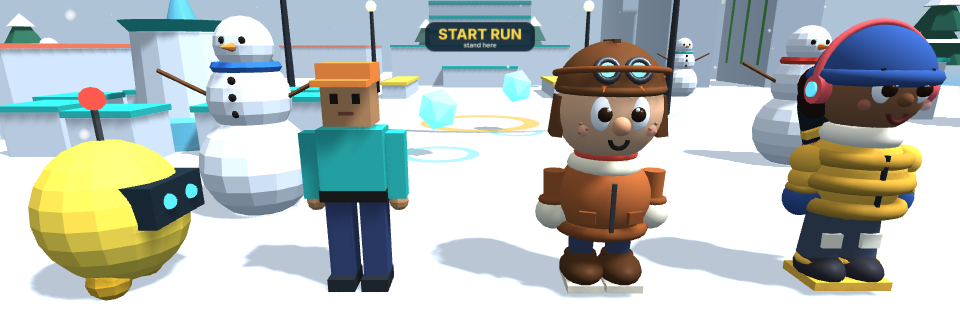
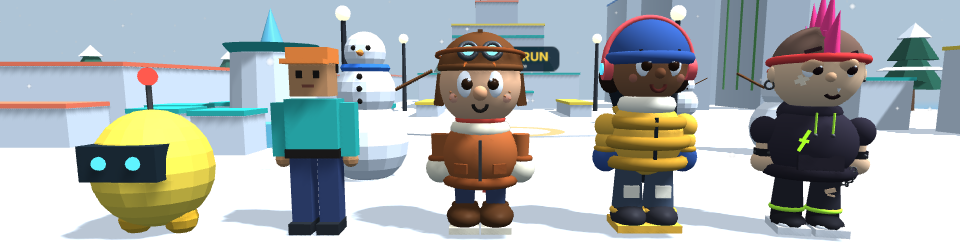
2.7.0: Vex, spring physics, and exaggerated squash & stretch setting
Claude-Session: https://claude.ai/code/session_01SxDArWDFzscbpHeAT2armF

diff --git a/js/characters.js b/js/characters.js
@@ -153,7 +153,96 @@ function buildNova(parent=P){
   return{root,hp,legL:legs[0],legR:legs[1],armL:arms[0],armR:arms[1],head,eyes,pony,hsYo:.21,
     mats:{jacket,fleece,leather,pants,boot,sole,glove,scarf,metal,lens,rib}};
 }
-const F=buildChibi(),NV=buildNova();
+// Vex: a mouthy skate punk with attitude. Same rig interface as Flip and Nova. His dangly bits run on real springs
+// (vexPhysics, below): "tails" (two bandana-knot tails), "hawk" (mohawk spikes that flop and wobble when he lands),
+// "chain" (wallet chain at his hip) and "gum" (the bubble he blows when he's left standing around).
+function buildVex(parent=P){
+  const root=new THREE.Group(),hp=new THREE.Group();hp.position.y=.9;root.add(hp);parent.add(root);
+  const S=(r,w=14,h=10)=>new THREE.SphereGeometry(r,w,h),sm=(c,o={})=>new THREE.MeshStandardMaterial({color:c,roughness:.6,...o});
+  const skin=sm(0xf1c49b,{roughness:.65}),lid=sm(0xe0ad84,{roughness:.7}),jacket=sm(0x2b2733,{roughness:.85}),rib=sm(0x221f28,{roughness:.9}),
+        fleece=sm(0xb6ff3b,{roughness:.7}),leather=sm(0xff3d8b,{roughness:.7}),roots=sm(0x6f5448,{roughness:1}),brow=sm(0x3a2228,{roughness:.9}),pants=sm(0x26262e,{roughness:.9}),
+        boot=sm(0x1d1d22,{roughness:.6}),sole=sm(0xf2f2f2,{roughness:.5}),glove=sm(0x1d1d22,{roughness:.5}),scarf=sm(0xe23b3b,{roughness:.7}),
+        metal=sm(0xc8ccd0,{roughness:.3,metalness:.7}),lens=sm(0xb6ff3b,{roughness:.4,emissive:0x4a7a00,emissiveIntensity:.9}),
+        dark=sm(0x1a0f12,{roughness:.4}),white=sm(0xffffff,{roughness:.3}),tape=sm(0xf6e2c4,{roughness:.95});
+  const T=(r,t,m,x,y,z,par,rx=PI/2,arc=2*PI)=>{const o=add(new THREE.TorusGeometry(r,t,8,24,arc),m,x,y,z,par);o.rotation.x=rx;return o};
+  const bolt=(x,y,z,k,par,ry=0)=>{const g=new THREE.Group();g.position.set(x,y,z);g.rotation.y=ry;par.add(g);
+    add(B(.05*k,.17*k,.02),lens,.025*k,.08*k,0,g).rotation.z=-.45;add(B(.13*k,.045*k,.02),lens,0,0,0,g).rotation.z=-.2;add(B(.05*k,.17*k,.02),lens,-.025*k,-.08*k,0,g).rotation.z=-.45;return g};
+  // legs: baggy ripped jeans, high-top sneakers with white toe caps
+  const legs=[-1,1].map(s=>{const g=new THREE.Group();g.position.set(s*.18,-.22,0);hp.add(g);
+    add(new THREE.CylinderGeometry(.13,.165,.42,12),pants,0,-.2,0,g);
+    if(s>0){add(B(.1,.045,.02),skin,0,-.17,.155,g).rotation.z=.3;add(B(.07,.02,.02),skin,.01,-.22,.158,g).rotation.z=-.2}
+    add(new THREE.CylinderGeometry(.15,.16,.18,12),boot,0,-.46,0,g);T(.155,.025,fleece,0,-.4,0,g);
+    add(S(.17),boot,0,-.54,.08,g).scale.set(1,.62,1.4);add(S(.1),sole,0,-.56,.23,g).scale.set(1.4,.6,.8);
+    add(B(.32,.08,.5),sole,0,-.6,.07,g);return g});
+  // oversized hoodie: kangaroo pocket, hood bunched behind the neck, drawstrings, lightning bolts front and back
+  add(S(.41,18,14),jacket,0,.1,0,hp).scale.set(1.1,1,.92);
+  T(.37,.07,rib,0,-.2,0,hp).scale.set(1.05,.92,1);
+  add(B(.42,.16,.06),rib,0,-.07,.335,hp).rotation.x=-.18;
+  add(S(.22),jacket,0,.42,-.26,hp).scale.set(1.3,.85,.7);add(S(.16),fleece,0,.47,-.22,hp).scale.set(1.1,.55,.5);
+  T(.21,.08,jacket,0,.44,-.03,hp);
+  [-1,1].forEach(s=>{add(new THREE.CylinderGeometry(.012,.012,.22,5),fleece,s*.08,.34,.37,hp);add(S(.022,6,5),metal,s*.08,.22,.375,hp)});
+  bolt(-.17,.16,.355,.7,hp,-.35);bolt(0,.14,-.39,1.5,hp,PI);
+  // arms: sleeves shoved up, studded wristbands, fists
+  const arms=[-1,1].map(s=>{const g=new THREE.Group();g.position.set(s*.46,.3,0);hp.add(g);
+    add(S(.145),jacket,0,-.07,0,g).scale.set(1,1.1,1);add(new THREE.CylinderGeometry(.075,.07,.2,10),skin,0,-.22,0,g);
+    add(new THREE.CylinderGeometry(.095,.095,.08,12),glove,0,-.31,0,g);
+    for(let i=0;i<4;i++){const a=i/4*2*PI+.4;add(S(.018,5,4),metal,Math.sin(a)*.097,-.31,Math.cos(a)*.097,g)}
+    add(S(.12),skin,0,-.41,0,g).scale.set(1,1,.9);return g});
+  // wallet chain: a loop of links from the front belt loop to the back pocket; the pivot swings it
+  const chain=new THREE.Group();chain.position.set(.34,-.14,0);hp.add(chain);
+  for(let i=0;i<=9;i++){const t=i/9,l=add(new THREE.TorusGeometry(.028,.009,5,8),metal,0,-.2*Math.sin(PI*t),.24*Math.cos(PI*t),chain);l.rotation.y=i%2?PI/2:0;l.rotation.x=PI*t}
+  // head
+  const head=new THREE.Group();head.position.set(0,.88,0);hp.add(head);
+  add(S(.43,20,16),skin,0,0,0,head);
+  [-1,1].forEach(s=>add(S(.09),skin,s*.42,-.04,0,head).scale.set(.55,1,.85));
+  T(.045,.012,metal,-.445,-.15,.02,head,0);add(S(.02,6,5),metal,.445,-.1,.03,head);
+  // shaved undercut, pink mohawk on springs (front spike is a big swoop that hangs over his brow)
+  add(new THREE.SphereGeometry(.436,22,14,0,2*PI,0,PI/2.4),roots,0,.03,-.01,head);
+  const hawk=[];[[-1,.42,.55],[-.55,.5,.32],[-.1,.48,.08],[.35,.4,-.12],[.8,.3,-.28],[1.15,.2,-.4]].forEach(([a,h,lean],i)=>{
+    const g=new THREE.Group();g.position.set(0,.41*Math.cos(a),-.41*Math.sin(a));g.rotation.x=-a-lean;head.add(g);g._b=g.rotation.x;
+    const c=add(new THREE.ConeGeometry(.14-i*.012,h,6),leather,0,h/2-.03,0,g);c.scale.set(.6,1,1);hawk.push(g)});
+  add(B(.11,.06,.75),leather,0,.4,-.04,head).rotation.x=.1;
+  // bandana across the forehead, knot at the back, two tails
+  T(.44,.045,scarf,0,.1,0,head,PI/2-.06);add(S(.07),scarf,0,.12,-.44,head);
+  const tails=[-1,1].map(s=>{const c=[];let pp=head,y0=.1,z0=-.46;for(let i=0;i<4;i++){const g=new THREE.Group();g.position.set(i?0:s*.05,y0,z0);if(!i)g.rotation.y=s*.4;pp.add(g);
+    add(B(.09-i*.014,.15,.022),scarf,0,-.075,0,g);c.push(g);pp=g;y0=-.15;z0=0}return c});
+  // face: half-lidded side-eye, one brow up and one down, lopsided smirk with a snaggletooth, bandage on the cheek
+  const eyes=[];
+  [-1,1].forEach(s=>{
+    const e=add(S(.1),white,s*.15,.02,.355,head);e.scale.set(.95,1.1,.5);eyes.push(e);
+    eyes.push(add(S(.05,10,8),dark,s*.15+.035,0,.4,head));
+    add(S(.015,6,4),white,s*.15+.05,.03,.43,head);
+    const l=add(new THREE.SphereGeometry(.108,14,8,0,2*PI,0,PI*.5),lid,s*.15,.02,.355,head);l.scale.set(.98,1.15,.6);l.rotation.x=.75;
+    const br=add(B(.15,.04,.035),brow,s*.16,s<0?.2:.15,.37,head);br.rotation.z=s<0?.28:.32});
+  add(S(.05),lid,0,-.07,.42,head);
+  const smile=T(.075,.018,dark,.04,-.2,.39,head,0,PI*.6);smile.rotation.z=PI+.55;
+  add(new THREE.ConeGeometry(.018,.045,4),white,.085,-.205,.405,head).rotation.x=PI;
+  {const b=new THREE.Group();b.position.set(-.23,-.1,.34);b.rotation.set(0,-.55,.35);head.add(b);add(B(.13,.045,.02),tape,0,0,0,b);add(B(.045,.11,.02),tape,0,0,.004,b)}
+  const gum=add(S(.15,16,12),sm(0xff4fa3,{roughness:.2,transparent:true,opacity:.92,emissive:0x5a0f30,emissiveIntensity:.4}),.05,-.22,.5,head);gum.scale.setScalar(.001);gum.visible=false;gum.castShadow=false;
+  return{root,hp,legL:legs[0],legR:legs[1],armL:arms[0],armR:arms[1],head,eyes,tails,hawk,chain,gum,gT:0,attitude:true,hsYo:.24,
+    mats:{jacket,fleece,leather,pants,boot,sole,glove,scarf,metal,lens,rib}};
+}
+// A damped spring on one rotation axis (velocity kept on the object): dangly bits overshoot and wobble instead of easing.
+function spring(o,ax,target,dt,k=120,c=9){const v=o._sv||(o._sv={x:0,y:0,z:0});v[ax]+=((target-o.rotation[ax])*k-v[ax]*c)*dt;v[ax]=Math.max(-40,Math.min(40,v[ax]));o.rotation[ax]+=v[ax]*dt}
+const kick=(o,ax,dv)=>{const v=o._sv||(o._sv={x:0,y:0,z:0});v[ax]+=dv};
+// Vex's physics. dv = how much the character's velocity changed this frame, in his own frame (f forward, s right, u up):
+// speeding up flings the tails back, stopping throws them forward, landing flops the mohawk, turning swings the chain.
+function vexPhysics(H,dt,dv,sp,air,run,ph,bank,idle){
+  const fl=Math.min(1,sp*.09)+(air?.3:0),cl=x=>Math.max(-12,Math.min(12,x));
+  H.tails.forEach((ch,j)=>ch.forEach((g,i)=>{kick(g,'x',cl(dv.f)*.35-cl(dv.u)*.12);kick(g,'z',cl(dv.s)*(.25+i*.06));
+    spring(g,'x',(i?.15+fl*.22:.35+fl*.85)+Math.sin(tAll*(5+sp*.7)-i*1.3+j*1.7)*(.03+fl*.09),dt,70+i*25,5);
+    spring(g,'z',(i?0:(j?.1:-.1))-bank*.6+Math.sin(tAll*(3.5+sp*.4)-i*.9+j)*(.03+fl*.05),dt,60+i*20,5)}));
+  H.hawk.forEach((g,i)=>{kick(g,'x',cl(dv.u)*(.5+i*.08)-cl(dv.f)*.12);kick(g,'z',cl(dv.s)*.2);
+    spring(g,'x',g._b-fl*.22*(i+1)/5+(run?Math.sin(ph*2)*.05:0),dt,150,6);spring(g,'z',-bank*.4,dt,150,6)});
+  kick(H.chain,'z',-cl(dv.s)*.5+cl(dv.u)*.05);spring(H.chain,'z',(run?Math.sin(ph)*.22:0)+(air?-.3:0),dt,45,3.5);
+  // gum: stand around long enough and he blows a bubble until it pops
+  const G=H.gum;if(idle){H.gT+=dt}else{if(G.visible&&G.scale.x>.25)popGum(H);H.gT=Math.min(H.gT,0)}
+  const q=(H.gT-2.2)/1.5;if(q>0&&q<1){G.visible=true;G.scale.setScalar(.05+.95*q*q*(1+.06*Math.sin(tAll*9)))}else if(q>=1){popGum(H);H.gT=-1.5-Math.random()*2}else{G.visible=false}}
+function popGum(H){const G=H.gum;G.visible=false;G.scale.setScalar(.001);if(state==='play'||state==='select'||state==='menu')SFX.gumPop();
+  const w=G.getWorldPosition?G.getWorldPosition(new THREE.Vector3()):new THREE.Vector3(P.position.x,py+1.6,P.position.z);
+  for(let i=0;i<7;i++){const m=new THREE.Mesh(partGeo,new THREE.MeshBasicMaterial({color:0xff8ac2,transparent:true}));m.position.copy(w);m.scale.setScalar(.6);scene.add(m);
+    parts.push({m,v:new THREE.Vector3((Math.random()-.5)*3,1+Math.random()*1.5,(Math.random()-.5)*3),life:.35})}}
+const F=buildChibi(),NV=buildNova(),VX=buildVex();
 // ---------- Flip's wardrobe ----------
 const OUTFITS=[
   {name:'Stunt Pilot',jacket:0xa8582c,fleece:0xf1e4c6,leather:0x6b3f22,pants:0x34405e,boot:0x4a2c18,sole:0xe9dcc0,glove:0xf3e6c8,scarf:0xe2493b,lens:0x9fe3f0,lensE:0x1d5a66,metal:0x7d858c},
@@ -168,6 +257,13 @@ const OUTFITS_NOVA=[
   {name:'Glacier',jacket:0xbfe6ff,fleece:0xffffff,leather:0xffffff,pants:0x5d7a91,boot:0x8a9aa6,sole:0xffffff,glove:0x7fb3d9,scarf:0x2f6fd0,lens:0xb8f0ff,lensE:0x2a6a80,metal:0xe9f6ff},
   {name:'Ember',jacket:0xd8452e,fleece:0x2a2a2a,leather:0x2a2a2a,pants:0x3a3330,boot:0x2a2220,sole:0xffb347,glove:0x2a2a2a,scarf:0xffb347,lens:0xffb347,lensE:0x804000,metal:0x2a2a2a},
   {...OUTFITS[4],name:'Gold Rush'}];
+// Vex's wardrobe (hoodie / hair = leather / bandana = scarf / laces, drawstrings, sneaker stripe = fleece / wristbands = glove / bolts = lens / studs, chain = metal)
+const OUTFITS_VEX=[
+  {name:'Street Punk',jacket:0x2b2733,fleece:0xb6ff3b,leather:0xff3d8b,pants:0x26262e,boot:0x1d1d22,sole:0xf2f2f2,glove:0x1d1d22,scarf:0xe23b3b,lens:0xb6ff3b,lensE:0x4a7a00,metal:0xc8ccd0},
+  {name:'Toxic',jacket:0x8fe02e,fleece:0x6b2cff,leather:0x6b2cff,pants:0x1d1d22,boot:0x6b2cff,sole:0x1d1d22,glove:0x6b2cff,scarf:0x1d1d22,lens:0x1d1d22,lensE:0x000000,metal:0x9aa0a8},
+  {name:'Bubblegum',jacket:0xff8ac2,fleece:0xffffff,leather:0x37d7ff,pants:0x3a3f6b,boot:0x37d7ff,sole:0xffffff,glove:0xffffff,scarf:0x37d7ff,lens:0xffffff,lensE:0x5a5a7a,metal:0xe8e8f0},
+  {name:'Blackout',jacket:0x18181c,fleece:0xff2a2a,leather:0xf4f4f4,pants:0x18181c,boot:0x18181c,sole:0xff2a2a,glove:0xff2a2a,scarf:0xff2a2a,lens:0xff2a2a,lensE:0x7a0000,metal:0x55585e},
+  {...OUTFITS[4],name:'Gold Tooth',leather:0x1d1d22}];
 const unlocked=(o,list=OUTFITS)=>!list[o].lock||!!bestA.orbRunAdv2;
 const OFI={}; // each wardrobe character's current outfit, by character index
 function applyOutfit(i){const c=chars[ci];if(c.outs)applyOutfitTo(c.rig.mats,i,c.outs)}
@@ -181,6 +277,7 @@ const chars=[
   {name:'Flip',desc:'A pint-sized stunt pilot who plays by momentum. Harder to steer, full of tricks.',speed:1.1,jump:9.5,sp:5,jp:4,ag:5,g:F.root,rig:F,outs:OUTFITS,ofKey:'orbRunOutfit',acro:true,
    moves:'Shift: crouch · Crouch + Jump: long jump (running) or backflip (standing) · Shift in the air: dive · Jump off a wall mid-air: wall jump · Jump as you land: double and triple jump · Reverse at speed to skid, Jump mid-skid to side flip'}];
 chars.push({name:'Nova',desc:'A fearless backcountry snowboarder with a board on her back and beats in her ears. Same trick moveset as Flip.',speed:1.1,jump:9.5,sp:5,jp:4,ag:5,g:NV.root,rig:NV,outs:OUTFITS_NOVA,ofKey:'orbRunOutfitNova',acro:true,moves:chars[2].moves});
+chars.push({name:'Vex',desc:'A mouthy skate punk who never asked for your help and won\u2019t say thanks. Same trick moveset as Flip.',speed:1.1,jump:9.5,sp:5,jp:4,ag:5,g:VX.root,rig:VX,outs:OUTFITS_VEX,ofKey:'orbRunOutfitVex',acro:true,moves:chars[2].moves});
 chars.forEach((c,i)=>{if(!c.outs)return;let v=0;try{v=+localStorage.getItem(c.ofKey)||0}catch(e){}if(!c.outs[v])v=0;OFI[i]=v;applyOutfitTo(c.rig.mats,v,c.outs)});
 const A={wallT:0,lock:0,wnx:0,wnz:0,spd:0,mode:'normal',t:0,air:false,landT:0,jumpN:0,canCut:false,canDive:true,prevC:false,flipT:99,flipAxis:'x',flipDir:1,knock:0,skidTo:0,twirlT:99};
 const resetAcro=()=>Object.assign(A,{wallT:0,lock:0,spd:0,mode:'normal',t:0,air:false,landT:0,jumpN:0,canCut:false,canDive:true,flipT:99,knock:0,twirlT:99});
@@ -191,6 +288,6 @@ function readyRing(){fxRing.position.set(P.position.x,py+.06,P.position.z);fxT=.
 function trail(col,n=1){for(let i=0;i<n;i++){const m=new THREE.Mesh(partGeo,new THREE.MeshBasicMaterial({color:col,transparent:true}));
   m.position.set(P.position.x+(Math.random()-.5)*.4,py+.5+Math.random()*.9,P.position.z+(Math.random()-.5)*.4);scene.add(m);
   parts.push({m,v:V(-vel.x*.15,.2,-vel.z*.15),life:.35})}}
-// Flip is the lead: default pick, first in the select order. Sunny and Rook remain as alternates.
-const ORDER=[2,3,0,1];let ci=2;try{const v=localStorage.getItem('orbRunPick');if(v!==null&&chars[+v])ci=+v}catch(e){}let pickCi=ci;
+// Flip is the lead: default pick, first in the select order, then Nova and Vex. Sunny and Rook remain as alternates.
+const ORDER=[2,3,4,0,1];let ci=2;try{const v=localStorage.getItem('orbRunPick');if(v!==null&&chars[+v])ci=+v}catch(e){}let pickCi=ci;
 let wave=0,bank=0,squash=0,airVy=0,wasG=true,lastFace=0;

diff --git a/js/loop.js b/js/loop.js
@@ -3,6 +3,38 @@
 const clock=new THREE.Clock();let tAll=0;
 const camPos=V(0,14,22),look=V(0,0,0);
 let wasPlaying=null,wallSliding=false,sndG=true,sndAir=0,sndVy=0,stepPh=0;
+// spring physics input: how the character's velocity changed this frame, in their own frame (f forward, s right, u up)
+const pv={x:0,y:0,z:0},dvL={f:0,s:0,u:0};let idleT=0;
+// Settings → Squash & stretch: Exaggerated springs the whole body around every move (TS = spring state per rig)
+let TOON=false;try{TOON=localStorage.getItem('orbRunSquash')==='big'}catch(e){}
+function setToon(on){TOON=on;try{localStorage.setItem('orbRunSquash',on?'big':'normal')}catch(e){}}
+const TS=new Map();
+// target body scale for the current move: [x (side), y (up), z (forward)]
+function toonTarget(air,m){const acro=!!chars[ci].acro;
+  if(GP.st===1)return[1.2,.72,1.2];
+  if(GP.st===2)return[.72,1.6,.72];
+  if(GP.st===3){const k=GP.t/T.pound.recover;return[1+.6*k,1-.55*k,1+.6*k]}
+  if(ATK.t>0){const p=1-ATK.t/ATK.dur,ext=p<.55?Math.sin(Math.min(1,p/.3)*PI/2):1-(p-.55)/.45;
+    if(p<.1)return[1.12,.86,.78];
+    if(ATK.kind==='sweep')return[1.3,.7,1.3];
+    if(ATK.kind==='combo'&&ATK.step===3)return[1.25,.78,1.25];
+    return[1-.12*ext,1-.12*ext,1+.55*ext]}
+  if(SB.anim>0){const q=1-SB.anim/.3;return q<.4?[1.1,.88,.8]:[.9,1.05,1.35]}
+  if(acro&&(m==='dive'||m==='slide'))return[.82,.82,1.5];
+  if(acro&&m==='long')return[.85,.85,1.4];
+  if(acro&&m==='skid')return[1.15,.88,.72];
+  if(acro&&m==='crouch')return[1.18,.74,1.18];
+  if(acro&&A.wallT>0&&air&&vy<=0)return[1.15,1.1,.7];
+  if(acro&&air&&A.flipT<.75)return[1.1,.82,1.1];
+  if(air&&vy>0){const y=1+Math.min(vy/28,.5);return[1/Math.sqrt(y),y,1/Math.sqrt(y)]}
+  if(air&&vy<-6){const y=1+Math.min((-vy-6)/50,.22);return[1/Math.sqrt(y),y,1/Math.sqrt(y)]}
+  if(squash>0){const q=squash;return[1+.6*q,1-.72*q,1+.6*q]}
+  return[1,1,1]}
+function toonScale(o,dt,air,m,tookOff){let S=TS.get(o);if(!S){S={x:1,y:1,z:1,vx:0,vy:0,vz:0};TS.set(o,S)}
+  const t=toonTarget(air,m);if(tookOff){S.vy+=7;S.vx-=3;S.vz-=3}
+  [['x',0],['y',1],['z',2]].forEach(([a,i])=>{const v='v'+a;S[v]+=((t[i]-S[a])*230-S[v]*11)*dt;S[a]=Math.max(.35,Math.min(2,S[a]+S[v]*dt))});
+  o.scale.set(S.x,S.y,S.z)}
+const playingToon=()=>TOON&&(state==='play'||state==='paused');
 function tick(){
   pollPad();if(!$('ov').classList.contains('hide'))updatePadInfo();
   const pl=state==='play';if(pl!==wasPlaying){wasPlaying=pl;document.body.classList.toggle('playing',pl);if(pl)renderControls();freeUI()}
@@ -28,6 +60,11 @@ function tick(){
   const moving=Math.hypot(vel.x,vel.z)>.5&&state==='play';
   chars.forEach((c,i)=>c.g.visible=i===ci);wave=Math.max(0,wave-dt);
   const air=!grounded&&state==='play';
+  {const pl=state==='play',dx=pl?vel.x-pv.x:0,dz=pl?vel.z-pv.z:0,sf=Math.sin(face),cf=Math.cos(face);
+    dvL.f=dx*sf+dz*cf;dvL.s=dx*cf-dz*sf;dvL.u=pl?vy-pv.y:0;pv.x=vel.x;pv.y=vy;pv.z=vel.z;
+    const busy=moving||air||ATK.t>0||GP.st||YS.spray||YS.t>0||SA.t>0||SB.anim>0||LH.on||CL.on||RS.pushing||wave>0||(chars[ci].acro&&A.mode!=='normal');
+    idleT=(state==='play'||state==='select'||state==='menu')&&!busy?idleT+dt:0}
+  const tookOff=state==='play'&&wasG&&!grounded&&vy>3;
   if(ci===0){
     body.position.y=(moving&&grounded&&!onIce?Math.abs(Math.sin(walk*3))*.12:Math.sin(tAll*3)*.04)+(wave>1.2?Math.sin((1.6-wave)*PI/.4)*.35:0);
     body.rotation.z=moving?Math.sin(walk*3)*.08:0;
@@ -40,6 +77,8 @@ function tick(){
     else if(SB.anim>0){body.rotation.y=0;body.rotation.x=SB.anim>.18?-.3:.4}
     else{body.rotation.y=0;body.rotation.x=0}
     feet[0].position.z=moving?Math.sin(walk*3)*.22:0;feet[1].position.z=-feet[0].position.z;
+    if(playingToon())toonScale(body,dt,air,'normal',tookOff);else body.scale.set(1,1,1);
+    if(state==='play'&&grounded&&!wasG)squash=Math.min(1,Math.max(.65,-airVy/12));if(!grounded)airVy=vy;wasG=grounded;squash=Math.max(0,squash-dt*4.5);
   }else{
     const H=chars[ci].rig,m=A.mode,playing=state==='play',acro=!!chars[ci].acro&&playing,chibi=ci>=2;
     const sp=acro?Math.abs(A.spd):Math.hypot(vel.x,vel.z),run=moving&&grounded,ph=walk*2.2;
@@ -47,7 +86,7 @@ function tick(){
     const dF=angD(face,lastFace)/Math.max(dt,1e-3);lastFace=face;
     bank+=(clamp(-dF*.045*Math.min(1,sp/7),.32)*(playing?1:0)-bank)*(1-Math.exp(-7*dt));
     // squash on landing
-    if(playing&&grounded&&!wasG)squash=Math.min(1,Math.max(.35,-airVy/15));
+    if(playing&&grounded&&!wasG)squash=TOON?Math.min(1,Math.max(.65,-airVy/12)):Math.min(1,Math.max(.35,-airVy/15));
     if(!grounded)airVy=vy;wasG=grounded;squash=Math.max(0,squash-dt*4.5);
     const br=Math.sin(tAll*2.2);
     let lx=0,lr=0,ax=.05*br,ar=-.05*br,zl=-.12-br*.04,zr=.12+br*.04,pitch=0,roll=0,yaw=0,yo=br*.012,hx=Math.sin(tAll*1.1)*.05,hz=0,hy=0,snap=false,snapY=false,rate=10,llz=0,skz=0;
@@ -99,6 +138,7 @@ function tick(){
     if(LH.on&&state!=='menu'){snap=false;snapY=false;rate=16;yaw=0;roll=0;hy=0;hz=0;lrz=0;llz=0;hx=-.25;const sw=Math.sin(walk*2.2);
       if(LH.up>0){const k=1-LH.up/LH.upT;rate=22;ax=ar=-3+Math.min(1,k*1.4)*2.6;zl=-.25;zr=.25;lx=-1.3*Math.sin(PI*Math.min(1,k*1.15));lr=-.9*Math.sin(PI*Math.min(1,k*1.25));pitch=.45*Math.sin(PI*k);yo=0}
       else{ax=-3+sw*.18;ar=-3-sw*.18;zl=-.18;zr=.18;lx=.08+sw*.12;lr=.08-sw*.12;pitch=.04;yo=0}}
+    if(H.attitude&&idleT>.4&&!CL.on&&!LH.on){const k=Math.min(1,(idleT-.4)*3);rate=8;ax=-1.5*k;ar=-1.38*k;zl=.74*k;zr=-.7*k;lx=-.06;lr=.1;roll=.07*k;yo=0;pitch=-.04*k;hx=-.14*k;hy=.3*k+Math.sin(tAll*.6)*.05;hz=.13*k}
     if(wave>0&&!air&&!moving){zr=2.5+Math.sin(wave*14)*.35;ar=0;hz=-.1}
     if(state==='select')hy=Math.sin(tAll*1.3)*.25;
     roll+=bank;hz-=bank*.5;
@@ -111,7 +151,8 @@ function tick(){
     L(H.head.rotation,'x',hx,kh);L(H.head.rotation,'y',hy,kh);L(H.head.rotation,'z',hz,kh);
     // squash and stretch
     const st=air&&vy>0?1+Math.min(vy/70,.13):1,sy=(1-.26*squash*squash)*st,sxz=1/Math.sqrt(sy);
-    L(H.root.scale,'y',sy,.5);L(H.root.scale,'x',sxz,.5);L(H.root.scale,'z',sxz,.5);
+    if(playingToon())toonScale(H.root,dt,air,m,tookOff);else{L(H.root.scale,'y',sy,.5);L(H.root.scale,'x',sxz,.5);L(H.root.scale,'z',sxz,.5)}
+    if(H.tails)vexPhysics(H,dt,dvL,sp,air,run,ph,bank,idleT>1.2&&state!=='menu');
     if(H.scarf){const fl=Math.min(1.25,sp*.11)+(air?.35:0)+(state==='select'?.15:0);
       H.scarf.forEach((g,i)=>{L(g.rotation,'x',(i?fl*.12:.25+fl)+Math.sin(tAll*(6+sp)-i*1.1)*(.08+fl*.12),.25);
         L(g.rotation,'z',Math.sin(tAll*(4+sp*.5)-i*.9)*(.06+fl*.08)-bank*.3,.25)})}

diff --git a/tests/vex-check.js b/tests/vex-check.js
@@ -1,0 +1,30 @@
+(()=>{const out=[];const _st=__step;__step=n=>{for(let i=0;i<n;i++){runHz.forEach(h=>{h.g.position.set(0,.75,40);h.vx=h.vz=0});SB.stun=0;_st(1)}};const ok=(n,c)=>out.push((c?'OK   ':'FAIL ')+n);
+ok('Vex in roster, acrobat, after Nova',chars[4].name==='Vex'&&chars[4].acro&&ORDER.indexOf(4)===ORDER.indexOf(3)+1);
+ok('5 Vex outfits, gold locked',OUTFITS_VEX.length===5&&!!OUTFITS_VEX[4].lock);
+ci=4;resume&&0;__place(0,10,0,Math.PI);const H=VX;ok('Vex rig visible',H.root.visible!==false&&chars[4].g.visible);
+// run forward, then stop hard: tails get flung, mohawk springs
+__k({KeyW:true});__step(40);const t0=H.tails[0][0].rotation.x;__k({});let maxT=0;for(let i=0;i<30;i++){__step(1);maxT=Math.max(maxT,Math.abs(H.tails[0][0]._sv.x))}
+ok('tails stream back when running (rx '+t0.toFixed(2)+')',t0>.6);ok('stopping whips the tails (spring vel '+maxT.toFixed(1)+')',maxT>1);
+// jump and land: mohawk flops forward then settles
+__place(0,10,0,Math.PI);jumpBuf=.15;keys.Space=true;__step(3);keys.Space=false;__until(()=>grounded,200);let mx=-9;const b0=H.hawk[2]._b;for(let i=0;i<20;i++){__step(1);mx=Math.max(mx,H.hawk[2].rotation.x-b0)}
+__step(120);ok('landing flops the mohawk ('+mx.toFixed(2)+') and it settles ('+(H.hawk[2].rotation.x-b0).toFixed(3)+')',mx>.15&&Math.abs(H.hawk[2].rotation.x-b0)<.05);
+// idle: crossed arms + gum bubble then pop
+__place(0,10,0,Math.PI);__k({});idleT=0;H.gT=0;let crossed=false,bub=0,popped=false;for(let i=0;i<420;i++){vel.set(0,0,0);__step(1);if(H.armL.rotation.z>.5&&H.armL.rotation.x<-1)crossed=true;if(H.gum.visible)bub=Math.max(bub,H.gum.scale.x);if(bub>.5&&!H.gum.visible)popped=true}
+ok('idle: arms crossed',crossed);ok('idle: blows a bubble (scale '+bub.toFixed(2)+') that pops',bub>.5&&popped);
+__k({KeyW:true});__step(5);ok('moving uncrosses the arms',H.gum.visible===false);__k({});
+// Exaggerated squash & stretch
+setToon(false);__place(0,10,0,Math.PI);__step(30);ok('normal mode: ordinary scale',Math.abs(H.root.scale.y-1)<.05);
+setToon(true);ok('setting saved',localStorage.getItem('orbRunSquash')==='big');
+__place(0,10,0,Math.PI);jumpBuf=.15;keys.Space=true;let up=0;for(let i=0;i<12;i++){__step(1);up=Math.max(up,H.root.scale.y)}keys.Space=false;
+__until(()=>grounded,200);let lo=9;for(let i=0;i<10;i++){__step(1);lo=Math.min(lo,H.root.scale.y)}
+ok('jump stretches tall ('+up.toFixed(2)+')',up>1.25);ok('landing squashes flat ('+lo.toFixed(2)+')',lo<.75);
+let wob=0,prev=H.root.scale.y,dir=0;for(let i=0;i<40;i++){__step(1);const d=Math.sign(H.root.scale.y-prev);if(d&&d!==dir){wob++;dir=d}prev=H.root.scale.y}ok('springs back with a wobble ('+wob+' direction changes)',wob>=3);
+__place(0,10,0,Math.PI);__step(10);attackPress();let fz=0;for(let i=0;i<15;i++){__step(1);fz=Math.max(fz,H.root.scale.z)}ok('punch stretches forward ('+fz.toFixed(2)+')',fz>1.25);
+__step(40);__place(0,10,0,Math.PI);jumpBuf=.15;keys.Space=true;__step(2);__step(22);keys.Space=false;groundPound();out.push('     (pound state '+GP.st+', height '+py.toFixed(2)+')');let sp=9,dn=0,imp=9;for(let i=0;i<80;i++){__step(1);if(GP.st===1)sp=Math.min(sp,H.root.scale.y);if(GP.st===2)dn=Math.max(dn,H.root.scale.y);if(GP.st===3)imp=Math.min(imp,H.root.scale.y)}
+ok('ground pound: balls up ('+sp.toFixed(2)+'), stretches down ('+dn.toFixed(2)+'), splats ('+imp.toFixed(2)+')',sp<.9&&dn>1.25&&imp<.75);
+// Sunny gets it too
+ci=0;__place(0,10,0,Math.PI);__step(60);jumpBuf=.15;keys.Space=true;let su=0;for(let i=0;i<12;i++){__step(1);su=Math.max(su,body.scale.y)}keys.Space=false;ok('Sunny stretches too ('+su.toFixed(2)+')',su>1.2);
+setToon(false);__until(()=>grounded,200);__step(60);ok('turning it off restores scale',Math.abs(body.scale.y-1)<.05);
+ok('settings row',LOOK.squash&&LOOK.squash.opts[1]==='Exaggerated');
+const a=makeAv(4);ok('multiplayer avatar for Vex',!!a.rig.tails&&a.rig.hawk.length===6);
+ci=4;__step=_st;return out.join('\n')})()

diff --git a/js/multiplayer.js b/js/multiplayer.js
@@ -30,7 +30,7 @@ const mapCount=i=>{const M=RUNMAPS[i];return M&&MP.on&&MP.lobby?MP.lobby.peers()
 // --- remote avatars ---
 function tagCanvas(w,h){const c=document.createElement('canvas');c.width=w;c.height=h;return c}
 function makeAv(ch){const g=new THREE.Group();scene.add(g);
-  const rig=ch===0?buildBot(g):ch===1?buildRook(g):ch===3?buildNova(g):buildChibi(g);
+  const rig=ch===0?buildBot(g):ch===1?buildRook(g):ch===3?buildNova(g):ch===4?buildVex(g):buildChibi(g);
   const tc=tagCanvas(320,96),tt=new THREE.CanvasTexture(tc),tag=new THREE.Sprite(new THREE.SpriteMaterial({map:tt,transparent:true,depthWrite:false}));tag.scale.set(2.6,.78,1);tag.position.y=2.75;g.add(tag);
   const kc=tagCanvas(320,72),kt=new THREE.CanvasTexture(kc),trick=new THREE.Sprite(new THREE.SpriteMaterial({map:kt,transparent:true,depthWrite:false,opacity:0}));trick.scale.set(2.6,.58,1);trick.position.y=3.5;g.add(trick);
   return{g,rig,ch,of:-1,tc,tt,tag,kc,kt,trick,txt:'',tn:null,tt0:0,init:false,lx:0,lz:0}}
@@ -66,6 +66,7 @@ function updAvatars(dt){
     if(Array.isArray(pr.q))applyPose(a,pr.q,Math.min(1,k*1.6));
     const sp=Math.hypot(G.x-ox,G.z-oz)/Math.max(dt,1e-3);
     if(a.rig.pony){const fl=Math.min(1,sp*.08);a.rig.pony.forEach((g,i)=>{g.rotation.x=(i?.12+fl*.22:.45+fl*.75)+Math.sin(tAll*(5+sp*.6)-i*1.2)*(.05+fl*.08)})}
+    if(a.rig.tails){const fl=Math.min(1,sp*.09);a.rig.tails.forEach((c,j)=>c.forEach((g,i)=>{g.rotation.x=(i?.15+fl*.22:.35+fl*.85)+Math.sin(tAll*(5+sp*.7)-i*1.3+j*1.7)*(.03+fl*.09)}));a.rig.hawk.forEach((g,i)=>g.rotation.x=g._b-fl*.22*(i+1)/5)}
     if(a.rig.scarf){const fl=Math.min(1.25,sp*.11);a.rig.scarf.forEach((g,i)=>{g.rotation.x=(i?fl*.12:.25+fl)+Math.sin(tAll*(6+sp)-i*1.1)*(.08+fl*.12)})}
     snowFromPeer(peer,a);
     drawTag(a,nameOf(peer),Number.isFinite(pr.sc)?Math.floor(pr.sc):0,!!pr.fr);

diff --git a/js/ui/settings.js b/js/ui/settings.js
@@ -5,6 +5,7 @@ let sideStyle='somersault';try{if(localStorage.getItem('orbRunSideFlip')==='clas
 const LOOK={season:{label:'Season',opts:['Winter','Summer'],get:()=>WIN?0:1,set:i=>setSeason(i===0)},snowfall:{label:'Snowfall',opts:['On','Off'],get:()=>SNOW?0:1,set:i=>setSnow(i===0)},
   sideFlip:{label:'Side flip style',opts:['Somersault','Classic'],get:()=>sideStyle==='classic'?1:0,set:i=>{sideStyle=i?'classic':'somersault';try{localStorage.setItem('orbRunSideFlip',sideStyle)}catch(e){}}},
   hang:{label:'Ledge hang',opts:['On','Off'],get:()=>LH.enabled?0:1,set:i=>{LH.enabled=i===0;if(!LH.enabled)LH.on=false;try{localStorage.setItem('orbRunHang',LH.enabled?'1':'0')}catch(e){}}},
+  squash:{label:'Squash & stretch',opts:['Normal','Exaggerated'],get:()=>TOON?1:0,set:i=>setToon(i===1)},
   yellow:{label:'Yellow snow',opts:['On','Off'],get:()=>YS.on?0:1,set:i=>setYellow(i===0)},
   foes:{label:'Enemies',opts:['Winter crew','Spikeballs'],get:()=>FOE_STYLE==='spike'?1:0,set:i=>setFoeStyle(i?'spike':'crew')},
   cpu:{label:'Computer player',opts:['Off','On'],get:()=>CPU.on?1:0,set:i=>setCpu(i===1)}};

diff --git a/js/state.js b/js/state.js
@@ -38,7 +38,7 @@ let pickMode='run',pickLevel=0,lockChar=false;
 function select(m,lv=0){
   pickMode=m;pickLevel=lv;if(m==='run'&&lv!==runIdx){useRunMap(lv);setWorld('run');resetRun()}lockChar=m==='adv'&&!!levels[lv].flipOnly;ci=lockChar&&!chars[pickCi].acro?2:pickCi;state='select';overlay(false);$('cs').classList.remove('hide');
   P.position.set(0,0,0);py=0;vel.set(0,0,0);
-  $('csMode').textContent=m==='run'?`Trick Park \u00b7 ${RUNMAPS[lv].name}`:`Adventure · ${levels[lv].name}${lockChar?' · Flip and Nova only':''}`;showChar();setTimeout(()=>$('csGo').focus(),50);
+  $('csMode').textContent=m==='run'?`Trick Park \u00b7 ${RUNMAPS[lv].name}`:`Adventure · ${levels[lv].name}${lockChar?' · Flip, Nova and Vex only':''}`;showChar();setTimeout(()=>$('csGo').focus(),50);
 }
 function showChar(){
   const c=chars[ci];$('csName').textContent=c.name;$('csDesc').textContent=c.desc;

diff --git a/js/audio/sfx.js b/js/audio/sfx.js
@@ -136,6 +136,7 @@ const SFX={
   snowThrow(){noise(.12,{f:900,f2:2600,q:1.2,vol:.06});tone(260,420,.08,{vol:.05})},
   splat(big){noise(big?.22:.14,{ft:'lowpass',f:2400,f2:500,vol:big?.16:.1});tone(140,70,.08,{vol:big?.12:.06})},
   board(v){const s=Math.min(1,v/12);tone(120,60,.12,{vol:.1+s*.15});noise(.1,{ft:'lowpass',f:1400,vol:.06+s*.08})},
+  gumPop(){noise(.05,{f:3200,f2:1400,q:1.2,vol:.09});tone(900,300,.05,{type:'triangle',vol:.05})},
   ui(i=0){tone(620+i*70,0,.05,{type:'triangle',vol:.05})},
   deny(){tone(180,140,.12,{type:'square',vol:.04})},
   start(){tone(523,0,.1,{type:'triangle',vol:.07});tone(784,0,.16,{type:'triangle',vol:.07,delay:.08})},

diff --git a/tools/gifs/vexscenes.py b/tools/gifs/vexscenes.py
@@ -1,0 +1,25 @@
+import asyncio,sys
+from rec import gif,still
+C=open('/home/claude/rec/common.js').read()
+L=open('/home/claude/rec/lineup2.js').read()
+S={}
+S['vex']=(C+"""__go(4,3);__at(-9,18,Math.PI/2);document.querySelector("header.hud").style.visibility="hidden";orbs.forEach(o=>rmObj(o.g));orbs=[];RS.list.forEach(b=>{b.x=40;syncRoller(b)});T.camera.height=2.6;T.camera.back=4.6;
+__run(s=>{runHz.forEach(h=>h.g.position.set(0,.75,40));SB.stun=0;
+ if(s.ph===0){__k({KeyD:true});if(s.f>=44){__k({});s.ph=1;s.w=0}}
+ else if(s.ph===1){if(++s.w===40){jumpBuf=.15;keys.Space=true}if(s.w===46)keys.Space=false;if(s.w>50&&grounded){s.ph=2;s.w=0}}
+ else if(s.ph===2){vel.set(0,0,0);s.w++;face+=(.55-face)*.08;if(s.w===40)VX.gT=1.4}
+});""",92)
+S['squash-stretch']=(C+"""__go(2,3);__at(-9,18,Math.PI/2);document.querySelector("header.hud").style.visibility="hidden";orbs.forEach(o=>rmObj(o.g));orbs=[];RS.list.forEach(b=>{b.x=40;syncRoller(b)});setToon(true);T.camera.height=2.4;T.camera.back=4.4;
+__run(s=>{runHz.forEach(h=>h.g.position.set(0,.75,40));SB.stun=0;s.w++;
+ if(s.ph===0){if(s.w===6){jumpBuf=.15;keys.Space=true}if(s.w===24)keys.Space=false;if(s.w>30&&grounded){s.ph=1;s.w=0}}
+ else if(s.ph===1){if(s.w===24||s.w===40||s.w===56)attackPress();if(s.w>95){s.ph=2;s.w=0}}
+ else if(s.ph===2){if(s.w===2){jumpBuf=.15;keys.Space=true}if(s.w===26){keys.Space=false;groundPound()}if(s.w>40&&grounded&&!GP.st){s.ph=3;s.w=0}}
+ else if(s.ph===3){if(s.w===20){__k({KeyD:true})}if(s.w===40){keys.ShiftLeft=true}if(s.w===42){jumpBuf=.15;keys.Space=true}if(s.w===46)keys.ShiftLeft=false;if(s.w>60&&grounded)__k({})}
+});""",110)
+async def main(names):
+  for n in names:
+    if n=='lineup':
+      await still(C+L+"""window.__LX=-1;window.__LZ=17;__lineup([[()=>makeAv(0),-3.6],[()=>makeAv(1),-1.8],[()=>{const a=makeAv(2);return a},0],[()=>makeAv(3),1.8],[()=>{const a=makeAv(4);a.ry=-.25;return a},3.6]]);
+        orbs.forEach(o=>rmObj(o.g));orbs=[];document.querySelector("header.hud").style.visibility="hidden";T.camera.back=5.6;T.camera.height=1.5;__step(40)""",'/home/claude/rec/lineup5.png');continue
+    js,fr=S[n];await gif(n,js,fr)
+asyncio.run(main(sys.argv[1:] or ['lineup']+list(S)))

diff --git a/README.md b/README.md
@@ -7,22 +7,33 @@ into combos in Trick Park (Plaza, Frozen Rink, Rooftops, Jungle Gym), discover n
 the Adventure levels. Built with three.js; open `index.html` in a browser to play (multiplayer works only in the
 claude.ai version).
 
-![The cast: Sunny, Rook, Flip and Nova](docs/media/characters.png)
+![The cast: Sunny, Rook, Flip, Nova and Vex](docs/media/characters.png)
 
 **What's new:** see the [changelog](CHANGELOG.md).
 
 ## Features
 
 ### A cast with a real moveset
-Pick **Flip** the stunt pilot or **Nova** the snowboarder for the full acrobat moveset, or **Sunny** (a bouncy robot)
-and **Rook** (a quick explorer) for simpler controls. Flip and Nova each have five outfits; Golden Ace / Gold Rush
-unlocks by beating Sky Gauntlet.
+Pick **Flip** the stunt pilot, **Nova** the snowboarder or **Vex** the skate punk for the full acrobat moveset, or
+**Sunny** (a bouncy robot) and **Rook** (a quick explorer) for simpler controls. Flip, Nova and Vex each have five
+outfits; the gold one unlocks by beating Sky Gauntlet.
 
 Double and triple jumps, a skid into a side somersault, backflips, long jumps, dives, wall jumps, a ground pound and
 **Pound Jump** (Jump right after a ground pound to rocket straight up), plus **ledge hang**: grab edges as you fall past,
 shimmy along them and pull up. Everything chains into combos.
 
 ![Triple jump, side somersault and backflip](docs/media/tricks.gif)
+
+**Vex** brings the attitude: half-lidded side-eye, a smirk with a snaggletooth, and a pink mohawk. His bandana tails,
+mohawk and wallet chain run on springs, so they whip when he stops, flop when he lands and swing as he turns. Leave him
+standing and he crosses his arms and blows bubble gum until it pops.
+
+![Vex runs, stops, lands, then crosses his arms and blows a bubble](docs/media/vex.gif)
+
+**Settings → Squash & stretch → Exaggerated** turns every move into a cartoon: tall stretchy jumps, splat landings that
+wobble back, punches that reach, and ground pounds that ball up, stretch down and squash flat.
+
+![Exaggerated squash and stretch: jump, punch combo, ground pound](docs/media/squash-stretch.gif)
 
 ### Trick Park
 Four maps to skate, flip and wall-jump around, with free roam until you step on the START pad for a 60-second
@@ -108,7 +119,7 @@ by files above it. Nothing is bundled.
 |---|---|---|
 | 1 | `js/tuning.js` | **Every gameplay number**: gravity, jumps, speeds, ice, climbing, attacks, combo, scoring, camera |
 | 2 | `js/core.js` | Renderer, scene, lights, material helpers, season registry, trees/rocks/flowers |
-| 3 | `js/characters.js` | Sunny, Rook, Flip and Nova rigs, their wardrobes, character table |
+| 3 | `js/characters.js` | Sunny, Rook, Flip, Nova and Vex rigs, their wardrobes, spring physics for dangly bits, character table |
 | 4 | `js/fx.js` | Spikeball model, particle bursts, collision push-out |
 | 5 | `js/audio/sfx.js` | Sound engine and the configurable sound-effect library |
 | 6 | `js/audio/music.js` | Music tracks, ambience, spikeball rolling sound |

diff --git a/CHANGELOG.md b/CHANGELOG.md
@@ -3,6 +3,16 @@
 All notable changes to Snowball Wars (formerly Orb Run, then briefly Frosty Falls).
 Versions before 2.1.0 were numbered afterwards, when the project moved to GitHub; their dates weren't recorded.
 
+## [2.7.0] - 2026-11-20 — Vex
+### Added
+- **Vex**, a new acrobat with Flip's full moveset: a mouthy skate punk with a pink mohawk, half-lidded side-eye, a
+  smirk with a snaggletooth, a bandaged cheek, an oversized hoodie with glowing bolts, studded wristbands and high-tops.
+  Five outfits (Street Punk, Toxic, Bubblegum, Blackout, and Gold Tooth after Sky Gauntlet).
+- Spring physics for Vex's bandana tails, mohawk and wallet chain: they react to speeding up, stopping, turning and landing.
+- Vex's idle: arms crossed, weight on one hip, and a bubble-gum bubble that pops.
+- **Settings → Squash & stretch: Normal / Exaggerated**. Exaggerated springs the body around jumps, landings, attacks,
+  ground pounds, dives, long jumps, crouches, skids, wall slides and snowball throws (every character, Sunny included).
+
 ## [2.6.0] - 2026-11-20 — Map Builder
 ### Added
 - **Map Builder**: a top-down editor for your own Trick Park maps, with an asset library (blocks, walls, raised decks,
